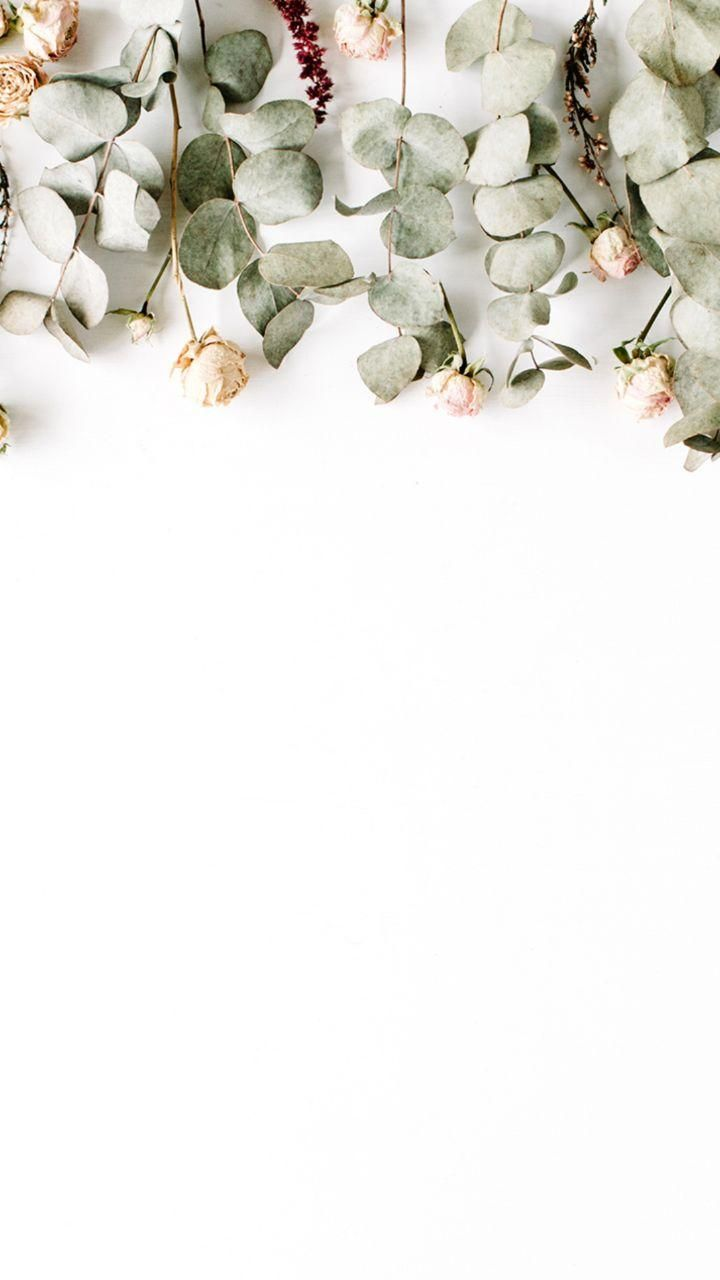
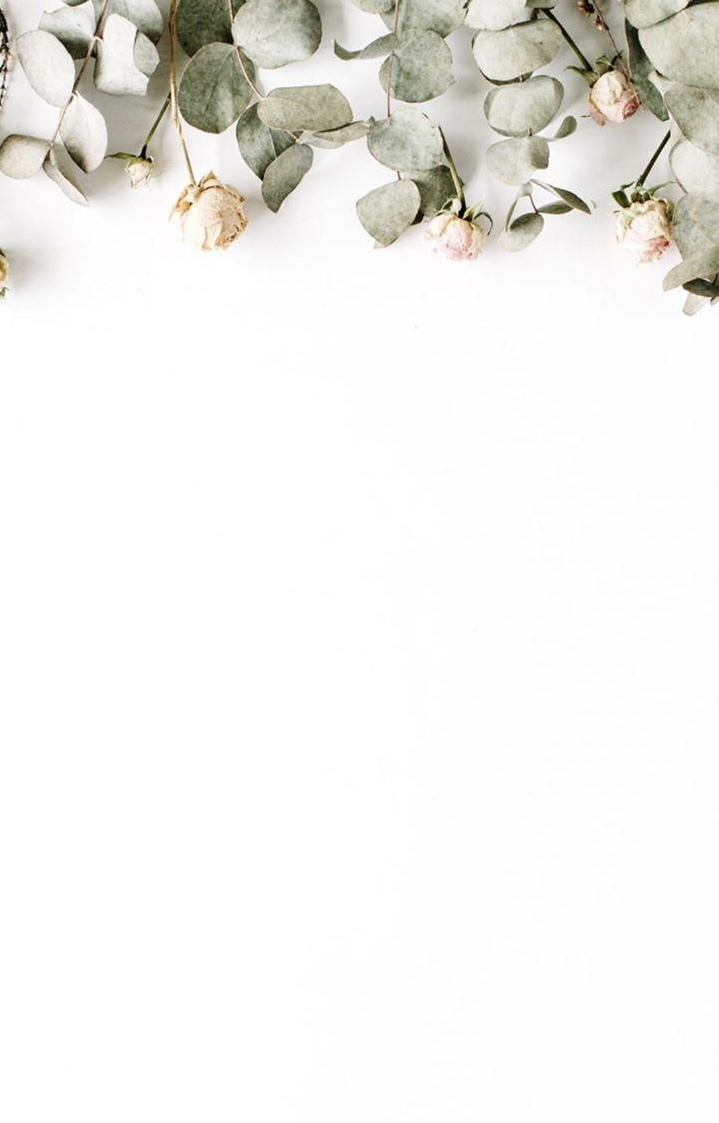
swipe 이벤트 위치변경

Changed region(s): [[0.0, 0.0, 1.0, 0.374]]

diff --git a/src/components/Main.js b/src/components/Main.js
@@ -1,6 +1,5 @@
 import React, { useEffect, useState } from 'react';
 import styled from 'styled-components';
-import { useSwipeable } from 'react-swipeable';
 import Pages from 'components/Pages';
 import Pagination from 'components/pages/Pagination';
 
@@ -26,31 +25,12 @@ const pageList = [
 
 function Main() {
   const [ pageNum, setPageNum ] = useState(1);
-  const lastPageNum = 5;
-  
-  const { ref: documentRef } = useSwipeable({
-    onSwipedUp: () => {
-      if (pageNum < lastPageNum) {
-        setPageNum(pageNum + 1);
-      }
-    },
-    onSwipedDown: () => {
-      if (pageNum > 1) {
-        setPageNum(pageNum - 1);
-      }
-    },
-    // preventDefaultTouchmoveEvent: true,
-    // swipeDuration: 500,
-    // preventScrollOnSwipe: true,
-    trackMouse: true
-  });
   
   useEffect(() => {
     console.log('@@@ pageNum : ', pageNum);
   }, [pageNum]);
   
   useEffect(() => {
-    documentRef(document);
     console.log('@@ when mounted');
   
     return () => {
@@ -60,7 +40,7 @@ function Main() {
   
   return (
     <S.Main id='main'>
-      <Pages pageNum={pageNum} />
+      <Pages pageNum={pageNum} setPageNum={setPageNum} lastPageNum={pageList.length} />
       <Pagination pageNum={pageNum} pages={pageList} />
     </S.Main>
   );

diff --git a/src/components/Pages.js b/src/components/Pages.js
@@ -1,14 +1,30 @@
 import React from 'react';
 import PropTypes from 'prop-types';
-import styled from 'styled-components';
-import { useWindowScrollPositions } from 'hooks/useWindowScrollPositions';
 import Cover from 'components/pages/Cover';
 import Greetings from 'components/pages/Greetings';
 import LocationAndDate from 'components/pages/LocationAndDate';
+import { useSwipeable } from 'react-swipeable';
 
-function Pages({ pageNum }) {
+function Pages({ pageNum, setPageNum, lastPageNum }) {
+  const swipeHandlers = useSwipeable({
+    onSwipedUp: () => {
+      if (pageNum < lastPageNum) {
+        setPageNum(pageNum + 1);
+      }
+    },
+    onSwipedDown: () => {
+      if (pageNum > 1) {
+        setPageNum(pageNum - 1);
+      }
+    },
+    // preventDefaultTouchmoveEvent: true,
+    // swipeDuration: 500,
+    // preventScrollOnSwipe: true,
+    trackMouse: true
+  });
+  
   return (
-      <div>
+      <div {...swipeHandlers}>
         <Cover pageNum={pageNum} />
         <Greetings pageNum={pageNum} />
         <LocationAndDate pageNum={pageNum} />

diff --git a/src/assets/styles/calendar.css b/src/assets/styles/calendar.css
@@ -31,7 +31,7 @@
   text-align: center;
   border-bottom: 1px solid #aeaeae;
   border-top-left-radius: 0.3rem;
-  padding: 4px 0.4rem;
+  padding: 2px 0.2rem;
   position: relative;
   display: flex;
   flex-direction: column;
@@ -64,7 +64,7 @@
   margin-top: 4px;
   color: #4d4d1a;
   font-size: 1rem;
-  line-height: 2rem;
+  line-height: 1.3rem;
 }
 
 .react-datepicker-time__header {
@@ -93,7 +93,7 @@
 }
 
 .react-datepicker__month {
-  margin: 0.4rem;
+  margin: 0.2rem;
   text-align: center;
 }
 .react-datepicker__month .react-datepicker__month-text,
@@ -199,8 +199,8 @@
 .react-datepicker__week-number {
   color: #ccc;
   display: inline-block;
-  width: 1.7rem;
-  line-height: 1.7rem;
+  width: 1.1rem;
+  line-height: 1.1rem;
   text-align: center;
   margin: 0.166rem;
 }
@@ -230,8 +230,8 @@
 .react-datepicker__time-name {
   color: #4d4d1a;
   display: inline-block;
-  width: 1.7rem;
-  line-height: 1.7rem;
+  width: 1.1rem;
+  line-height: 1.1rem;
   text-align: center;
   margin: 0.166rem;
 }

diff --git a/src/components/pages/LocationAndDate.js b/src/components/pages/LocationAndDate.js
@@ -1,5 +1,5 @@
 /* global kakao */
-import React, { useEffect, useRef, useState } from 'react';
+import React, { useEffect, useRef } from 'react';
 import PropTypes from 'prop-types';
 import styled from 'styled-components';
 import BgImageDate from 'assets/date_bg.jpeg';
@@ -16,7 +16,9 @@ S.Wrapper = styled.div`
   height: 100%;
   overflow: hidden;
   background: url(${BgImageDate}) no-repeat center;
-  background-size: cover;
+  background-size: contain;
+  background-color: #ffffff;
+  background-position: top;
   display: flex;
   flex-direction: column;
   justify-content: center;

diff --git a/src/components/pages/Greetings.js b/src/components/pages/Greetings.js
@@ -35,7 +35,7 @@ S.MessageBox = styled.div`
 S.Message = styled.div`
   color: #AD5B78;
   //color: #ba8a87;
-  font-size: 1.3rem;
+  font-size: 1.2rem;
 `;
 
 function Greetings({ pageNum }) {

diff --git a/src/components/pages/Pagination.js b/src/components/pages/Pagination.js
@@ -6,8 +6,7 @@ const S = {};
 S.Wrapper = styled.div`
   position: fixed;
   top: 0;
-  left: 0;
-  width: 100%;
+  right: 0;
   height: 100%;
   display: flex;
   overflow: hidden;
